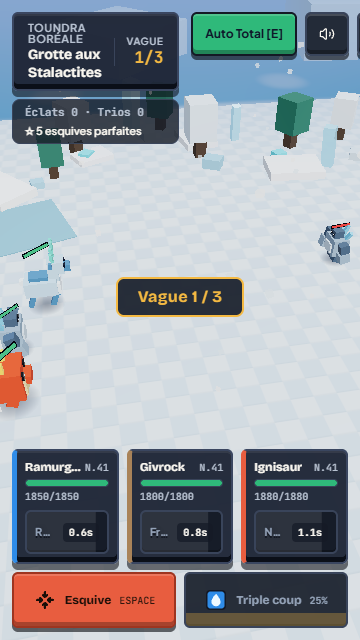
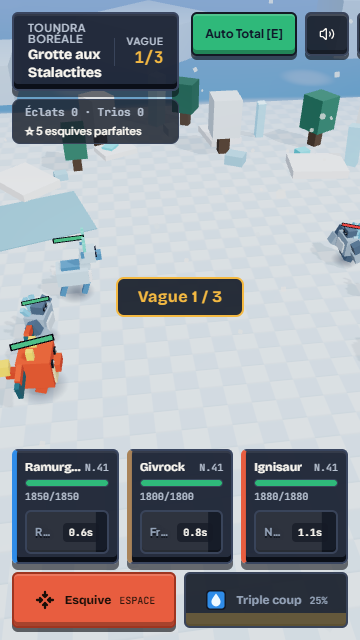
g1.4: mesures par niveau de qualite (docs/captures/g1/mesures), captures avant/apres avec GPU, compteurs de ?debug=1 sur toutes les passes, ?quality=, rapport docs/rapports/G1.md, CLAUDE.md

diff --git a/src/App.tsx b/src/App.tsx
@@ -138,7 +138,12 @@ export default function App() {
   const controlModeRef = useRef<ControlMode>('semi');
   controlModeRef.current = controlMode;
   const [muted, setMuted] = useState(false);
-  const [settings, setSettings] = useState<GameSettings>(() => loadSettings());
+  // ?quality=low|medium|high|auto : impose la qualité graphique (outil de mesure, G1.4)
+  const [settings, setSettings] = useState<GameSettings>(() => {
+    const s = loadSettings();
+    const q = typeof window === 'undefined' ? null : new URLSearchParams(window.location.search).get('quality');
+    return q && (QUALITY_ORDER as string[]).includes(q) ? { ...s, quality: q as GameSettings['quality'] } : s;
+  });
 
   const [activeStage, setActiveStage] = useState<StageDef | null>(null);
   const [hudSnapshot, setHudSnapshot] = useState<ExpeditionHudSnapshot | null>(null);

diff --git a/src/game/engine/postfx.ts b/src/game/engine/postfx.ts
@@ -88,6 +88,8 @@ export function setupPostFx(self: VoxelEngine, width: number, height: number): v
     self.postfx = null;
     return;
   }
+  // les compteurs de ?debug=1 additionnent toutes les passes d'une image (remis à zéro dans renderFrame)
+  renderer.info.autoReset = false;
   const composer = new EffectComposer(renderer);
   composer.addPass(new RenderPass(self.scene, self.camera));
   const gtao = new GTAOPass(self.scene, self.camera, width, height);
@@ -166,6 +168,7 @@ export function renderFrame(self: VoxelEngine, dt: number): void {
   const renderer = self.renderer;
   if (!renderer) return;
   const fx = self.postfx;
+  if (fx) renderer.info.reset();
   if (!fx || fx.level === 'low') {
     renderer.render(self.scene, self.camera);
   } else {

diff --git a/docs/rapports/G1.md b/docs/rapports/G1.md
@@ -1,0 +1,96 @@
+# Rapport de session G1 — Graphismes et portraits 3D
+
+Spec `docs/plan/SPEC_ATELIER.md`, branche `g1-graphismes`, partie de `a1-final`. `main` n'a pas bougé.
+
+## 1. Résumé en 5 lignes
+
+1. Nouvelle page `?bench=1` : 30 s d'un combat écrit à l'avance (aléatoire à graine fixe). Elle donne les images par seconde (moyenne et 5 % les plus lentes), les appels de dessin et les triangles.
+2. Rendu en pipeline d'effets : occlusion ambiante (GTAO), contour fin des créatures, halo réservé aux surfaces lumineuses, ACES et étalonnage par biome. L'occlusion ambiante par bloc des créatures est calculée une fois, à la construction.
+3. Trois niveaux, Bas, Moyen et Haut, plus **Automatique** par défaut, qui descend d'un cran sous 45 images/s tenues 3 s. Le réglage se fait avec un bouton « Graphismes » au camp.
+4. **PortraitStudio** : chaque créature est photographiée en 3D (256 × 256, trois-quarts face, studio). Toutes les icônes de créature utilisent ce portrait ; une créature non découverte devient une ombre noire unie. Un portrait qui tourne s'affiche à l'arrivée d'une créature.
+5. Golden identique à toutes les étapes : rien de tout cela n'existe en headless.
+
+## 2. Tags et retour arrière
+
+| Tag | État |
+| --- | --- |
+| `g1-avant-mesure` | = `a1-final` |
+| `g1-avant-rendu` | `?bench=1` et captures de référence |
+| `g1-avant-portraits` | effets et niveaux de qualité |
+| `g1-avant-verification` | portraits 3D |
+| `g1-final` | fin de session |
+
+## 3. Ce qui a changé, par section
+
+- **G1.1 Mesure de départ** :
+  - `components/BenchOverlay.tsx` (calcul pur `summarizeFrames`, testé) ;
+  - graine fixe dans `main.tsx`, pour la page `?bench=1` seulement ;
+  - niveau par défaut : volcano-2.
+- **G1.2 Éclairage et effets** :
+  - `engine/postfx.ts` : `EffectComposer`, avec `RenderPass`, `GTAOPass` (Haut), `OutlinePass` (Moyen et Haut), `UnrealBloomPass` (seuil 0,86), étalonnage (`ShaderPass`) et `OutputPass` ;
+  - `BIOME_GRADE` : saturation et teinte par biome et pour le camp ;
+  - `nextAutoLevel` : règle pure de l'Automatique, testée ;
+  - occlusion ambiante par bloc dans `models/creatures.ts` (`bakeBlockAo`, couleurs de sommet) ;
+  - option `quality` dans `settings.ts` (sans migration, ce n'est pas une sauvegarde), et `?quality=` dans l'URL pour les mesures ;
+  - les compteurs de `?debug=1` additionnent maintenant toutes les passes d'une image.
+- **G1.3 Portraits 3D** :
+  - `game/portraitStudio.ts` : un seul contexte WebGL hors écran, un portrait par image d'animation, gardé en mémoire ;
+  - `VoxelCreatureAvatar` (Icons.tsx) affiche le portrait 3D, avec l'icône dessinée en attendant ou sans WebGL. Donc **toutes** les icônes passent au portrait : HUD de combat, équipe, Codex, choix du départ, écran de fin, arrivée, carte, marmite ;
+  - prop `silhouette` (ombre noire unie), utilisée par le Codex ;
+  - `components/CreatureTurntable.tsx` : portrait qui tourne, utilisé seulement par `ArrivalScene` ; image fixe avec « mouvement réduit ».
+- **G1.4 Vérification** :
+  - captures avant et après avec le GPU (option `-Gpu` du script de captures) ;
+  - captures de mesure par niveau de qualité.
+
+## 4. Mesures avant / après
+
+**Volcano-2, première vague**, 1280 × 720, Edge headless avec GPU, lu dans `?debug=1` (captures `docs/captures/g1/mesures/`) :
+
+| Qualité | Appels de dessin | Triangles | Textures |
+| --- | --- | --- | --- |
+| Bas (= rendu d'avant G1) | 171 | 10 232 | 8 |
+| Moyen | 364 | 20 486 | 28 |
+| Haut | 539 | 30 722 | 34 |
+
+- **Images par seconde : non mesurées.** Le navigateur headless tourne en temps virtuel, ses chiffres ne valent rien. C'est à toi de lancer `?bench=1` (puis `?bench=1&quality=low`, `medium`, `high`) sur ton PC et ton téléphone.
+- Le contour et l'occlusion ambiante redessinent la scène, d'où environ 2 à 3 fois plus d'appels de dessin. L'Automatique est là pour les machines modestes.
+- Le rendu logiciel (SwiftShader, vieux PC) n'active jamais les effets.
+
+## 5. Valeurs de jeu modifiées
+
+Aucune (le combat et l'équilibrage ne changent pas).
+
+## 6. Décisions prises seul
+
+- **L'Automatique ne fait que descendre** (Haut → Moyen → Bas), jamais remonter, pour éviter les va-et-vient. Il repart de Haut au chargement suivant.
+- **Bloom à seuil haut** plutôt qu'un halo « sélectif » par calque, pour ne pas toucher aux matériaux pendant un combat. Ce sont donc les surfaces émissives et claires qui brillent.
+- **Le tone mapping ACES existait déjà** sur le renderer : il est gardé à tous les niveaux. Le niveau Bas n'ajoute aucune passe.
+- **Le bouton « Graphismes » est au camp** (en haut à droite, à côté du tremblement), faute d'écran d'options dédié.
+- **L'ombre des non découverts** est le portrait passé au filtre `brightness(0)` : c'est exactement la même silhouette.
+- **Portrait qui tourne : seulement à l'arrivée d'une créature.** L'écran d'équipe et la fiche du Carnet viendront en A3.
+
+## 7. Non fait ou coupé
+
+- **Les FPS réels** (voir section 4).
+- **Les portraits des objets** (cubes, appâts) : PortraitStudio ne connaît que les créatures. Les objets viendront en A2.
+- **Visibles brièvement à l'ouverture d'un écran** : les icônes dessinées s'affichent le temps que les portraits se calculent, environ un par image.
+
+## 8. Bugs trouvés
+
+- **`?debug=1` sous-comptait les appels de dessin** dès qu'il y avait plusieurs passes. Corrigé : remise à zéro manuelle des compteurs à chaque image.
+
+## 9. À juger par un humain
+
+- **Le jeu est-il plus beau ?** Captures `docs/captures/g1/avant/` et `docs/captures/g1/apres/` (mêmes vues : camp de jour et de nuit, évolution, un combat dans chacun des 7 biomes).
+- **Le halo du feu de camp, la nuit**, est peut-être trop fort.
+- **Fluidité** : lance `?bench=1` sur PC et sur téléphone.
+
+## 10. Idées
+
+- Un halo vraiment sélectif (calque dédié) si le halo actuel déborde sur des surfaces claires.
+
+## Reprise
+
+- **Changé** : branche `g1-graphismes`.
+- **Retour arrière** : `g1-avant-rendu` (sans effets), `a1-final`.
+- **Prochaine étape** : A2 depuis `g1-final`.

diff --git a/CLAUDE.md b/CLAUDE.md
@@ -40,6 +40,7 @@ URL utiles en développement (aucune ne touche à la sauvegarde) :
 - `?stage=<id>` : lance un niveau avec son escouade de référence. Options : `&squad=a,b,c&lvl=N&bonus=N`.
 - `?gallery=1` : galerie de revue (toutes les créatures en 3D + aperçu des biomes).
 - `?autostart=1&hour=0.8` : camp à une heure donnée (0 aube · 0.3 jour · 0.66 crépuscule · 0.8 nuit).
+- `?bench=1` : mesure de 30 s d'un combat à graine fixe (images/s moyennes et 5 % les plus lentes, appels de dessin, triangles). `&quality=low|medium|high` impose la qualité.
 - `?debug=1` : overlay de diagnostic (FPS, temps d'image, draw calls, triangles, géométries, textures, particules, entités). Se combine avec les autres. Détail des lignes dans `src/game/engine/debug.ts`.
 
 ## Architecture
@@ -59,6 +60,7 @@ src/game/engine/           Logique du moteur, un module par responsabilité (car
 src/game/voxelModels.ts    Point d'entrée des modèles (réexporte src/game/models/).
 src/game/models/           Modèles voxel procéduraux (carte ci-dessous).
 src/game/styleGuide.ts     Plages chiffrées de STYLE.md, vérifiées par style.test.ts.
+src/game/portraitStudio.ts  Portraits 3D des créatures (rendu hors écran, cache) utilisés par toutes les icônes.
 src/game/galleryRenderer.ts Vignettes de la galerie `?gallery=1` (outil de développement).
 src/game/*.test.ts         rules, save, engine (moteur headless), style, lineage-* et biome-* (un fichier par ajout de contenu).
 src/components/            Interface React (HUD, tiroirs du camp, modales). L'état de jeu vit dans App.tsx.
@@ -104,6 +106,7 @@ Chaque module exporte des fonctions qui reçoivent le moteur en premier argument
 | `actors.ts` | État commun des acteurs, pose animée des modèles, recherche de cible, disparition. |
 | `fx.ts` | Particules, projectiles, ondes de choc, télégraphes au sol, confettis. |
 | `hud.ts` | Instantané de combat envoyé à l'interface. |
+| `postfx.ts` | Pipeline d'effets (G1) : GTAO, contour, halo, étalonnage par biome ; niveaux Bas/Moyen/Haut/Automatique. Jamais en headless. |
 | `debug.ts` | Mesures de l'overlay `?debug=1`. |
 
 ### Carte des modèles (`src/game/models/`)
